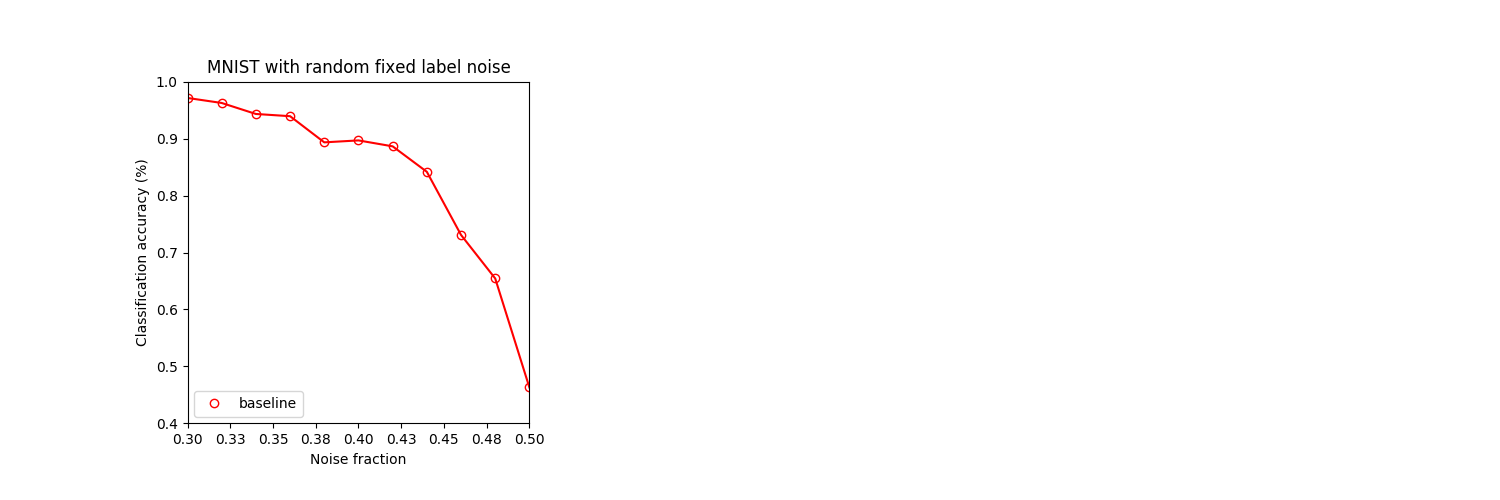
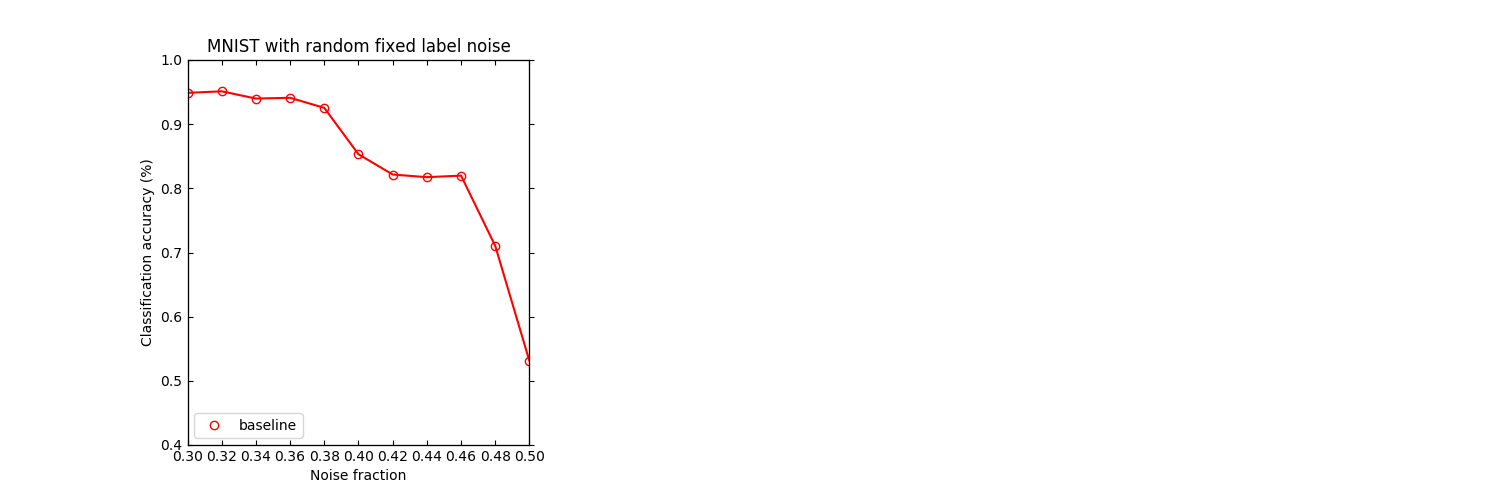
Enable example recon loss training

diff --git a/train.py b/train.py
@@ -23,13 +23,18 @@ def noisify_labels(y, noise_fractions, noise_mapping, seed=1):
   
   np.random.seed(seed)
   y_noisy = np.zeros(y.shape)
+  noisy_sum = 0
+  clean_sum = 0
   for i in range(y.shape[0]):
     if np.random.rand() <= noise_fractions[y[i]]:
       #print('%d -> %d' % (y_train[i], noise_mapping[y_train[i]]))
       y_noisy[i] += noise_mapping[y[i]]
+      noisy_sum += 1
     else:
       #print('%d -> %d' % (y_train[i], y_train[i]))
       y_noisy[i] += y[i]
+      clean_sum += 1
+  #print(noisy_sum, clean_sum, noisy_sum/float(y.shape[0]), clean_sum/float(y.shape[0]))
   return y_noisy
 
 def noisify_mnist(noise_fraction):
@@ -42,6 +47,7 @@ def noisify_mnist(noise_fraction):
   noise_mapping = get_noise_mapping()
   noise_fractions = [noise_fraction for i in range(10)]
   
+  print()
   print(noise_mapping)
   print(np.round(noise_fractions, 3))
   
@@ -50,12 +56,9 @@ def noisify_mnist(noise_fraction):
     map[i,noise_mapping[i].astype('int32')] += 1
   
   y_train_noisy = noisify_labels(y_train, noise_fractions, noise_mapping)
-
   return x_train, y_train, y_train_noisy, x_test, y_test, map, noise_mapping
 
-def evaluate_noise_grid(model_getter, \
-                        noise_grid=[x for x in np.arange(0.3,0.51,0.02)], \
-                        n_splits=5):
+def evaluate_noise_grid(model_getter, noise_grid, train=False, n_trials=5):
 
   accs = []
   noise_mapping = None
@@ -63,31 +66,42 @@ def evaluate_noise_grid(model_getter, \
     x_train, y_train, y_train_noisy, x_test, y_test, map, noise_mapping = \
       noisify_mnist(noise_fraction)
     
-    model, callbacks, trained, model_name = model_getter(noise_fraction)
-    
-    weights_file = './%s/%s_noise_fraction_%.2lf.h5' \
-                 % (model_name, model_name, noise_fraction)
-    
-    validation_data = (x_test, np_utils.to_categorical(y_test))
-
-    if not trained:
-      model.fit(x_train, \
-                np_utils.to_categorical(y_train_noisy), \
-                validation_data=validation_data, \
-                callbacks=callbacks, \
-                batch_size=128, \
-                epochs=10000)
-      model.save(weights_file)
-
-    model.load_weights(weights_file)
+    #validation_data = (x_test, np_utils.to_categorical(y_test))
+    validation_data = (x_train[:10000], np_utils.to_categorical(y_train_noisy[:10000]))
+    x_train = x_train[10000:]
+    y_train = y_train[10000:]
+    y_train_noisy = y_train_noisy[10000:]
+    if train:
+      best_acc = 0.0
+      for i in range(1,n_trials+1):
+        model, model_name = model_getter()
+        weights_file = \
+          './baseline_model/trials/%d/best_baseline_model_noise_fraction_%.2lf_trial_%d.h5'%(i, noise_fraction, i)
+        callbacks = [ModelCheckpoint(weights_file, 'val_acc', save_best_only=True), \
+                     EarlyStopping('val_acc', mode='auto', patience=5)]
+        model.fit(x_train, \
+                  np_utils.to_categorical(y_train_noisy), \
+                  validation_data=validation_data, \
+                  callbacks=callbacks, \
+                  batch_size=32, \
+                  epochs=100)
+        model.load_weights(weights_file)
+        acc = model.evaluate(x_test, np_utils.to_categorical(y_test))[1]
+        if  acc > best_acc:
+          print('\naccuracy: %.3lf -> %.3lf'%(best_acc, acc))
+          weights_file = \
+            './baseline_model/best_baseline_model_noise_fraction_%.2lf.h5'%(noise_fraction)
+          best_acc = acc
+          model.save(weights_file)
+    weights_file = \
+      './baseline_model/best_baseline_model_noise_fraction_%.2lf.h5'%(noise_fraction)
+    model, model_name = model_getter(weights_file)
     
     acc = model.evaluate(x_test, np_utils.to_categorical(y_test))[1]
-    print(acc)
     accs.append(acc)
-    
   return noise_grid, accs
 
-def baseline_model_getter(noise_fraction):
+def baseline_model_getter(weights_file=None):
 
   # build the model for pre-training
   inputs = Input(shape=(784,))
@@ -105,26 +119,16 @@ def baseline_model_getter(noise_fraction):
     kernel_regularizer=regularizers.l2(0.0001))(x)
 
   model = Model(inputs, q)
-  weights_file = \
-    './baseline_model/best_baseline_model_noise_fraction_%.2lf.h5'%(noise_fraction)
-  callbacks = None
-  trained = False
-  try:
-    model.load_weights(weights_file)
-    trained = True
-  except OSError:
-    callbacks = [ModelCheckpoint(weights_file, 'val_loss', verbose=1, save_best_only=True), \
-                 EarlyStopping('loss', mode='auto', patience=5)]
-  
-  #optimizer = SGD(lr=0.001, momentum=0.9)
-  optimizer = SGD(lr=0.001)
-  #optimizer = Adam(lr=0.001)
-  #optimizer = 'adam'
+
+  optimizer = SGD(lr=0.1)
   model.compile(loss='categorical_crossentropy', \
                 optimizer=optimizer, \
                 metrics=['acc'])
-  
-  return model, callbacks, trained, 'baseline_model'
+
+  if weights_file:
+    model.load_weights(weights_file)
+
+  return model, 'baseline_model'
 
 def bootstrap_recon_model_getter(noise_fraction):
 
@@ -177,6 +181,7 @@ def bootstrap_recon_model_getter(noise_fraction):
 def plot_results(noise_grid, accs_list, model_names, colours):
   fig = plt.figure(figsize=(15, 5))
   ax1 = fig.add_subplot(1,3,1)
+  ax2 = ax1.twinx().twiny()
   for i,accs in enumerate(accs_list):
     ax1.plot(noise_grid, accs, '-', color=colours[i])
     ax1.plot(noise_grid, accs, 'o', markeredgecolor=colours[i], \
@@ -186,29 +191,42 @@ def plot_results(noise_grid, accs_list, model_names, colours):
   ax1.set_xlabel('Noise fraction')
   ax1.set_ylim(0.4,1.0)
   ax1.set_xlim(0.3,0.5)
+  ax1.xaxis.set_ticks(np.arange(0.3, 0.51, 0.02))
   xleft, xright = ax1.get_xlim()
   ybottom, ytop = ax1.get_ylim()
   # the abs method is used to make sure that all numbers are positive
   # because x and y axis of an axes maybe inversed.
-  ax1.set_aspect(abs((xright-xleft)/(ybottom-ytop))*1.0)
-  plt.legend(loc='lower left')
+  #ax1.set_aspect(abs((xright-xleft)/(ybottom-ytop))*1.0)
+  ax1.legend(loc='lower left')
   ax1.xaxis.set_major_formatter(FormatStrFormatter('%.2f'))
+  ax1.tick_params(direction='in')
+  ax2.set_ylim(0.4,1.0)
+  ax2.set_xlim(0.3,0.5)
+  ax2.xaxis.set_ticks(np.arange(0.3, 0.51, 0.02))
+  ax2.set_yticklabels([])
+  ax2.set_xticklabels([])
+  ax2.tick_params(direction='in')
   plt.savefig('replicated_results.png')
 
-def train_model_mnist_recon_loss():
+def train_model_mnist_recon_loss(noise_fraction):
 
   x_train, y_train, y_train_noisy, x_test, y_test, map, _ = \
-    noisify_mnist(0.48)
+    noisify_mnist(noise_fraction)
 
   m = 50000 # validation split
   
-  base_model = train_baseline_model(x_train[:m], y_train_noisy[:m], \
-    validation_data=(x_train[m:], y_train[m:]))
+  #base_model = train_baseline_model(x_train[:m], y_train_noisy[:m], \
+  #  validation_data=(x_train[m:], y_train[m:]))
+
+  weights_file = \
+      './baseline_model/best_baseline_model_noise_fraction_%.2lf.h5'%(noise_fraction)
+  base_model, model_name = baseline_model_getter(weights_file)
 
   print(base_model.evaluate(x_test, np_utils.to_categorical(y_test)))
   
   # build the consistency model
   inputs = Input(shape=(784,))
+  #q = base_model(inputs)
   q = base_model(inputs)
   
   t_layer = Dense(10, activation='softmax', name='t', \
@@ -238,13 +256,13 @@ def train_model_mnist_recon_loss():
   except OSError:
     model.fit(x_train[:m], [np_utils.to_categorical(y_train_noisy[:m]), x_train[:m]], \
       validation_data=(x_train[m:], [np_utils.to_categorical(y_train[m:]), x_train[m:]]),\
-      callbacks=callbacks, batch_size=256, epochs=500)
+      callbacks=callbacks, batch_size=256, epochs=100)
 
   print(base_model.evaluate(x_test, np_utils.to_categorical(y_test)))
   print(base_model.evaluate(x_train[m:], np_utils.to_categorical(y_train[m:])))
 
   W = model.get_layer('t').get_weights()[0]
-
+  
   fig = plt.figure()
   ax1 = fig.add_subplot(1,2,1)
   ax1.imshow(map, cmap='gray')
@@ -254,8 +272,15 @@ def train_model_mnist_recon_loss():
 
 def main():
   
-  noise_grid, accs = evaluate_noise_grid(baseline_model_getter)
+  noise_grid, accs = evaluate_noise_grid(baseline_model_getter, \
+                       noise_grid=[x for x in np.arange(0.3,0.51,0.02)], \
+                       n_trials=1, \
+                       train=True)
+                       
   plot_results(noise_grid, [accs], ['baseline'], ['r'])
+  
+  noise_fraction = 0.40
+  train_model_mnist_recon_loss(noise_fraction)
 
 if __name__ == '__main__':
   main()
